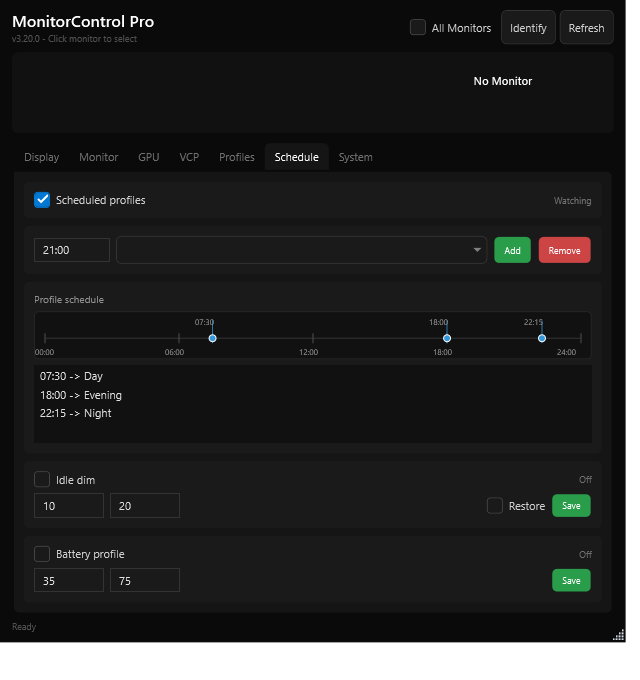
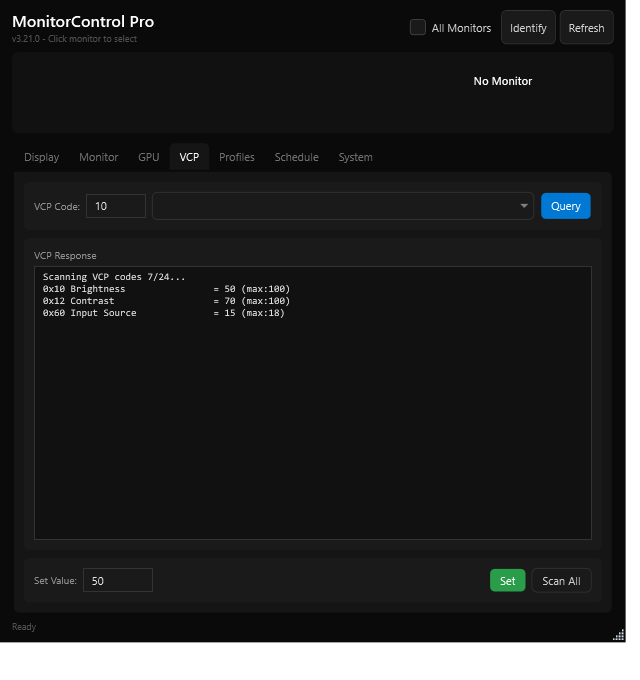
feat: run vcp reads asynchronously

diff --git a/README.md b/README.md
@@ -1,7 +1,7 @@
 # MonitorControl Pro
 
 <p align="center">
-  <img src="https://img.shields.io/badge/Version-v3.20.0-brightgreen" alt="Version v3.20.0">
+  <img src="https://img.shields.io/badge/Version-v3.21.0-brightgreen" alt="Version v3.21.0">
   <img src="https://img.shields.io/badge/PowerShell-5.1+-blue?logo=powershell" alt="PowerShell 5.1+">
   <img src="https://img.shields.io/badge/Windows-10%2F11-0078D6?logo=windows" alt="Windows 10/11">
   <img src="https://img.shields.io/badge/DDC%2FCI-Supported-green" alt="DDC/CI">
@@ -46,6 +46,7 @@ A comprehensive Windows GUI utility for controlling monitor settings via DDC/CI 
 ### Advanced Features
 - **VCP Explorer** — Query and set any VCP code for advanced users
 - **VCP Code Scanner** — Discover which DDC/CI features your monitor supports, including extended MCCS codes for gamma, OSD controls, indicators, auxiliary power, and display modes
+- **Async VCP Reads** — VCP Explorer query and scan operations run in a background worker with live scan progress
 - **Coalesced DDC Writes** — Slider, profile, preset, and all-monitor writes queue on a background worker so rapid UI changes do not block the WPF thread
 - **DDC/CI Capabilities Viewer** — View raw capabilities string from monitor
 - **Software Gamma Control** — Independent RGB gamma curves via Windows API

diff --git a/ROADMAP.md b/ROADMAP.md
@@ -55,7 +55,7 @@ PowerShell/WPF utility for DDC/CI monitor control â€” brightness, contrast,
   Evidence: `MonitorControlPro.ps1:1483`, `MonitorControlPro.ps1:1533`; Microsoft documents roughly 40 ms for VCP reads and 50 ms for VCP writes.
   Touches: `MonitorControlPro.ps1` hardware wrappers, slider handlers, VCP scan, profile/app/schedule/idle apply paths.
   Acceptance: Rapid slider dragging remains responsive, writes are coalesced per monitor/code, VCP scan shows progress without `DoEvents`, and failed writes surface in status/log.
-  Progress: v3.20.0 adds coalesced background writes for slider, profile, preset, and all-monitor set paths; VCP scan/read async work remains.
+  Progress: v3.20.0 adds coalesced background writes for slider, profile, preset, and all-monitor set paths; v3.21.0 moves VCP Explorer query/scan reads to a background worker with timer-based progress.
   Complexity: M
 
 - [ ] P0 - Capture DDC/CI last-error diagnostics and retry policy
